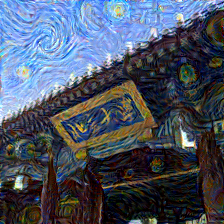
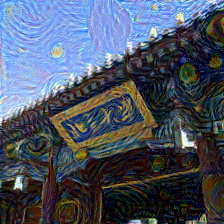
调参

diff --git a/utils.py b/utils.py
@@ -33,15 +33,15 @@ class LossNet(nn.Module):
 
 def laplacian(x, p: int):
     # 注意！！这个函数包括了池化
-    x = F.avg_pool2d(x, kernel_size=p, stride=p)
+    x_down = F.avg_pool2d(x, kernel_size=p, stride=p)
 
-    b, ch, h, w = x.size()
+    b, ch, h, w = x_down.size()
     lap_kernel = torch.tensor([[0, -1, 0],
                                [-1, 4, -1],
                                [0, -1, 0]], dtype=torch.float32).cuda()
     lap_kernel = lap_kernel.unsqueeze(0).unsqueeze(0)
     lap_kernel = lap_kernel.expand(ch, ch, -1, -1)
-    res = F.conv2d(x, lap_kernel, padding=1)
+    res = F.conv2d(x_down, lap_kernel, padding=1)
     res = torch.sum(res, dim=1)
     
     return res

diff --git a/config.py b/config.py
@@ -1,11 +1,12 @@
 style_weight = 1e3
 content_weight = 1
-laplacian_weight = [100, 100]
+laplacian_weight = [10, 10]
 laplacian_pool_size = [4, 16]
 
 content_image = './data/content/Peking University.png'
 style_image = './data/style/The starry night.png'
-output_path = './experiments/lapstyle_pku_vangogh.png'
+output_path = './experiments/lapstyle_pku_vangogh_lbfgs.png'
+save = False
 image_size = (224, 224)
 
 prototxt_path = './models/VGG_ILSVRC_19_layers_deploy.prototxt'

diff --git a/lapstyle.py b/lapstyle.py
@@ -78,4 +78,5 @@ ax[1].set_title('Style Image', fontsize=15)
 ax[2].imshow(result)
 ax[2].set_title('Stylized Image', fontsize=15)
 plt.show()
-plt.imsave(config.output_path, result)
+if config.save:
+    plt.imsave(config.output_path, result)
